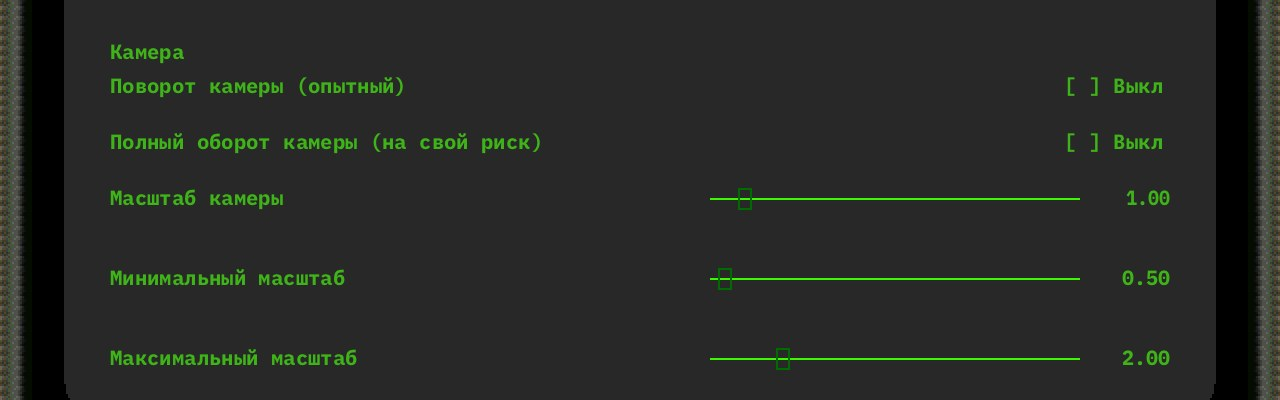
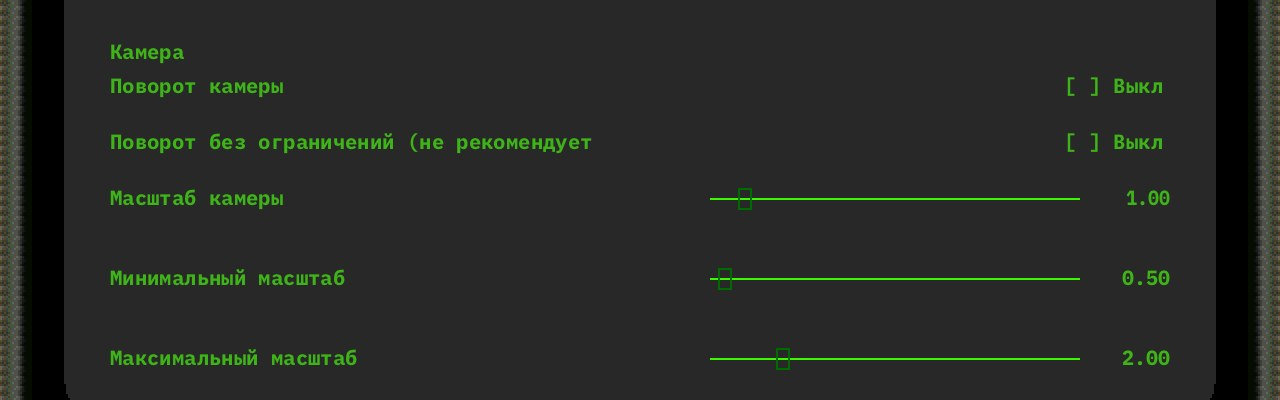
Clarify camera UX copy and mark unlimited rotation not recommended

Changed region(s): [[0.0938, 0.33, 0.4688, 0.39], [0.2188, 0.18, 0.3125, 0.24]]

diff --git a/ce/src/scene/menu_text.cc b/ce/src/scene/menu_text.cc
@@ -61,10 +61,10 @@ const std::vector<Translation>& catalog()
         { "Things that shine in Fallout 2 (fire, monitors, signs) bleed light softly in the 3D view.", cp1251(u8"Огонь, мониторы, вывески и другие источники света получают мягкое свечение в 3D.") },
         { "Glow strength", cp1251(u8"Сила свечения") },
         { "How far the glow of shining things spreads and brightens.", cp1251(u8"Насколько далеко распространяется свечение и насколько оно яркое.") },
-        { "Camera rotation (experimental)", cp1251(u8"Поворот камеры (опытный)") },
-        { "[ and ] turn the 3D camera in steps of 45 degrees, limited to 45 degrees either way. A turned view is for looking only: the game takes no clicks until the camera is back.", cp1251(u8"Клавиши [ и ] поворачивают камеру на 45 градусов, не дальше 45 градусов в каждую сторону. Пока камера повёрнута, можно только смотреть: верните её назад, чтобы управлять игрой мышью.") },
-        { "Unlimited camera rotation (own risk)", cp1251(u8"Полный оборот камеры (на свой риск)") },
-        { "Allow a full camera turn at your own risk. Beyond 45 degrees, missing backs and imperfect corners may be visible.", cp1251(u8"Разрешить полный оборот камеры на свой риск. За пределами 45 градусов могут быть видны отсутствующие задние стороны и неровные углы.") },
+        { "Camera rotation", cp1251(u8"Поворот камеры") },
+        { "[ and ] turn the camera up to 45 degrees left or right. Return to the original view to control the game with the mouse.", cp1251(u8"Клавиши [ и ] поворачивают камеру в пределах 45 градусов влево и вправо. Верните камеру в исходное положение, чтобы управлять игрой мышью.") },
+        { "Unlimited camera rotation (not recommended)", cp1251(u8"Поворот без ограничений (не рекомендуется)") },
+        { "Remove the 45-degree limit. Objects and walls may render incorrectly at larger angles.", cp1251(u8"Снимает ограничение в 45 градусов. При большем повороте объекты и стены могут отображаться с ошибками.") },
         { "Light", cp1251(u8"Освещение") },
         { "Light the 3D scene with the game's light.", cp1251(u8"Освещать 3D-сцену игровым светом.") },
         { "Camera zoom", cp1251(u8"Масштаб камеры") },

diff --git a/ce/src/settings.cc b/ce/src/settings.cc
@@ -478,13 +478,13 @@ void initSettingsRegistry(bool isMapper)
         if (onlyAdd && settingsKeyExists("3d", "glow_strength")) return;
         settingsWrite("3d", "glow_strength", settings.scene3d.glow_strength);
     };
-    registerThreeDBoolean("camera_rotation", settings.scene3d.camera_rotation, "Camera rotation (experimental)",
-        "[ and ] turn the 3D camera in steps of 45 degrees, limited to 45 degrees either way. "
-        "A turned view is for looking only: the game takes no clicks until the camera is back.",
+    registerThreeDBoolean("camera_rotation", settings.scene3d.camera_rotation, "Camera rotation",
+        "[ and ] turn the camera up to 45 degrees left or right. "
+        "Return to the original view to control the game with the mouse.",
         SettingApplyPolicy::OnClose);
     registerThreeDBoolean("camera_rotation_unlimited", settings.scene3d.camera_rotation_unlimited,
-        "Unlimited camera rotation (own risk)",
-        "Allow a full camera turn at your own risk. Beyond 45 degrees, missing backs and imperfect corners may be visible.",
+        "Unlimited camera rotation (not recommended)",
+        "Remove the 45-degree limit. Objects and walls may render incorrectly at larger angles.",
         SettingApplyPolicy::OnClose);
 
     registerSetting("3d", "lights", settings.scene3d.lights);

diff --git a/ce/tests/settings_3d/settings_3d_test.cc b/ce/tests/settings_3d/settings_3d_test.cc
@@ -172,7 +172,7 @@ int main()
             && !std::get<bool>(unlimited->defaultValue)
             && !settings.scene3d.camera_rotation_unlimited
             && unlimited->applyPolicy == SettingApplyPolicy::OnClose
-            && unlimited->fallbackLabel.find("own risk") != std::string::npos,
+            && unlimited->fallbackLabel.find("not recommended") != std::string::npos,
             "rotation and unrestricted rotation are independent default-off menu options")) return 1;
     double angle = 0.0;
     for (int i = 0; i < 100; ++i) angle = scene::cameraTurnTarget(angle, 1, false);

diff --git a/docs/2026-10-20-shapes-and-rotation-design.md b/docs/2026-10-20-shapes-and-rotation-design.md
@@ -7,10 +7,10 @@ Agreed with the project owner on 2026-10-20.
 1. The game's view stays exactly the 2D game, pixel for pixel. Nothing below
    may change it; the regression guards it.
 2. Camera rotation is an option, off by default: `[3d] camera_rotation`, in the
-   menu as experimental. Updated by the owner on 2026-10-25 (077): it turns
+   menu as "Camera rotation". Updated by the owner on 2026-10-25 (077): it turns
    in 45-degree steps around the vertical axis at the game camera's pitch,
    limited to -45..+45 degrees. `[3d] camera_rotation_unlimited`, off by
-   default and marked "own risk", lifts the limit. The dev fly camera stays
+   default and marked "not recommended", lifts the limit. The dev fly camera stays
    unlimited; view quality beyond the limit is not promised.
 3. Seen from a turned camera, things look decent by an algorithm, not by
    fixing chairs one by one: at least 70% of the eval set and at least 70% of

diff --git a/tasks/077-camera-45.md b/tasks/077-camera-45.md
@@ -15,8 +15,8 @@ reviewed: yes
 ## Goal
 
 The released game turns its camera at most 45 degrees either way from the
-game's own view; a menu option off by default, marked as at the player's
-own risk, lifts the limit.
+game's own view; a default-off menu option marked "not recommended" lifts
+the limit.
 
 ## Context
 
@@ -66,3 +66,8 @@ Committed older references were not retaken; their known drift stays in 058.
 Not checked: real keyboard input/animation in the owner's game; endpoint
 math and actual menu controls were tested, angles rendered in isolated runs.
 Next: owner's visual check; no game restart or installation performed.
+
+UX copy update: the owner requested plain labels and "not recommended"
+instead of "own risk". Removed "experimental" from Camera rotation and
+rewrote both RU/EN tooltips around the actual action and visible consequence.
+Rebuilt, passed settings_3d_tests, recaptured the Russian menu crop.

diff --git a/docs/p1-devtools.md b/docs/p1-devtools.md
@@ -104,7 +104,7 @@ quarter turns round (legacy snapshot units). `-TurnDegrees D`
 snapshot overrides bypass player settings; the dev fly camera is unlimited.
 For players, `[3d] camera_rotation` enables [ and ] in 45-degree steps,
 clamped to -45..+45. `[3d] camera_rotation_unlimited` (off by default,
-marked own risk in the Camera menu) permits a full turn. Turning rotation
+marked not recommended in the Camera menu) permits a full turn. Turning rotation
 off returns to the game view; turning unlimited off clamps any current turn
 back into the safe range.
 `-Solo R` (`--dev-solo=TILE,R`, TILE is `-ViewTile`) draws only the things

diff --git a/runs/077-camera-45/README.md b/runs/077-camera-45/README.md
@@ -8,7 +8,8 @@ source commit is the claim commit; captures used the working implementation.
 
 `options-russian.jpg`: Camera section of the real preferences panel, Russian,
 sharp text, 1920x2160 at scale 2, cropped to (320,1680)-(1600,2080).
-Both toggles are off by default. The unrestricted option is marked own risk.
+Both toggles are off by default. The unrestricted option is marked not recommended.
+Final menu crop uses `build/camera077/menu-ux` after the owner's copy revision.
 
 Reproduce:
 
